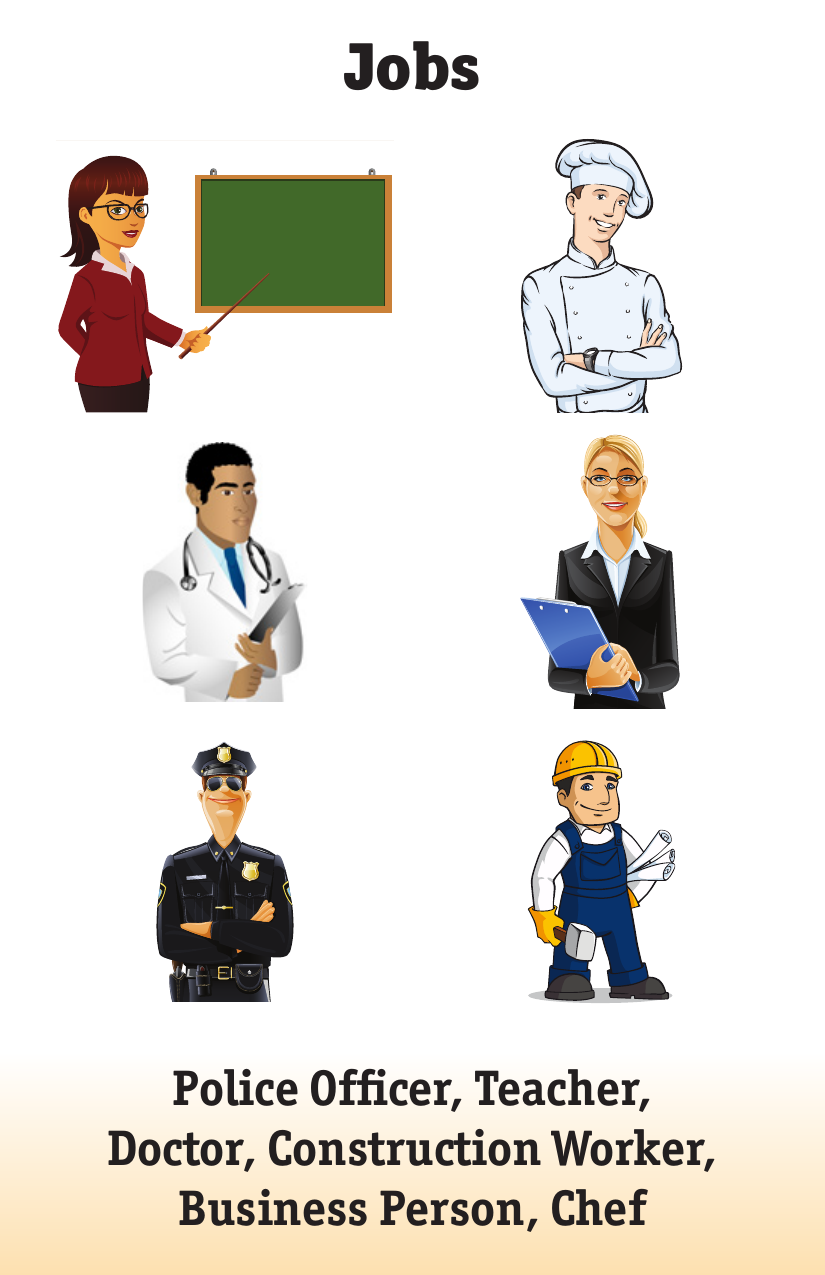
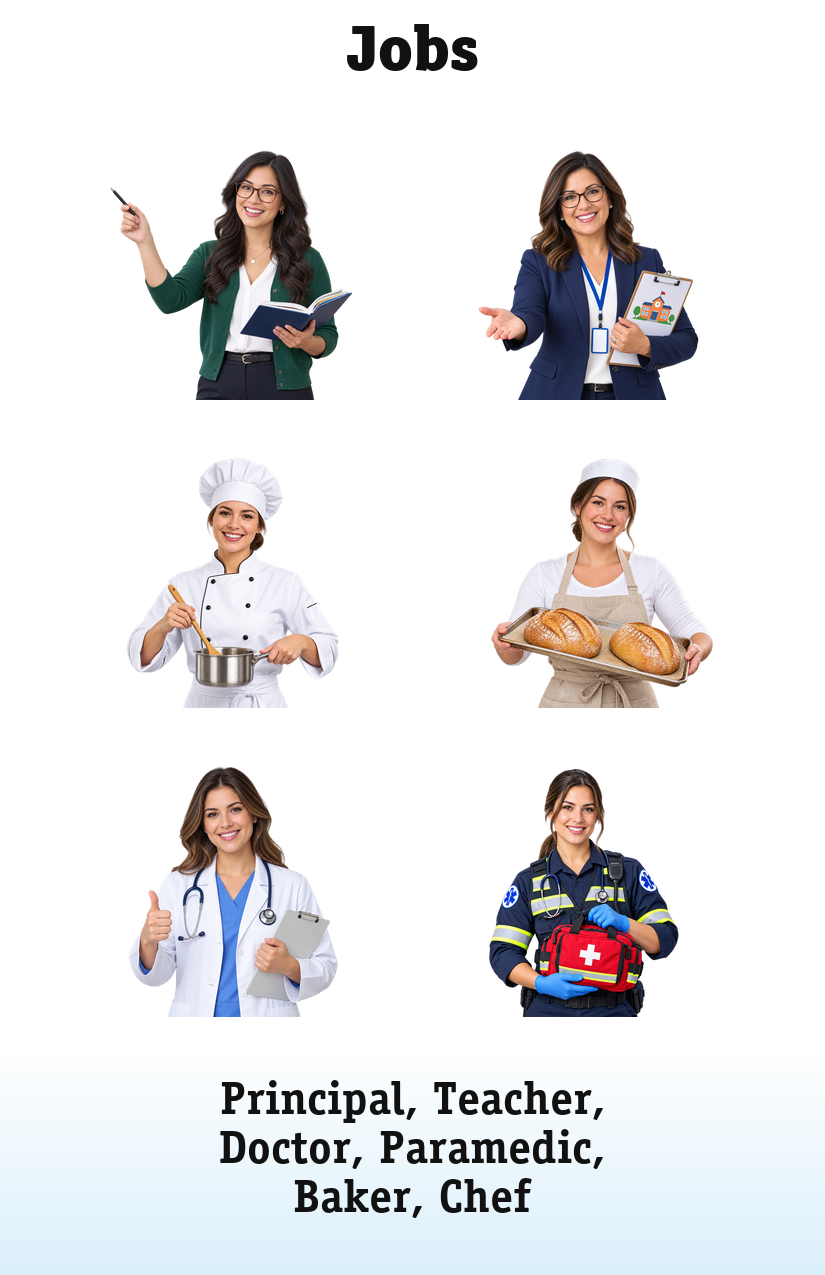
Rebuild Jobs around clear workplace pairs

diff --git a/picture-this/game-data.js b/picture-this/game-data.js
@@ -146,11 +146,11 @@ window.PICTURE_THIS_GAME_DATA = {
   ],
   "jobs": [
     "Teacher",
+    "Principal",
     "Chef",
+    "Baker",
     "Doctor",
-    "Business Person",
-    "Police Officer",
-    "Construction Worker"
+    "Paramedic"
   ],
   "everyday-foods": [
     "Beans",
@@ -1406,6 +1406,42 @@ window.PICTURE_THIS_GAME_DATA = {
 window.PICTURE_THIS_GAME_META = {
   "schema_version": 1,
   "cards": {
+    "jobs": {
+      "title": "Jobs",
+      "category_answers": ["Jobs", "Occupations", "People at Work", "Careers"],
+      "tags": ["jobs", "work", "occupations", "people"],
+      "items": [
+        {"id": "teacher", "label": "Teacher", "answers": ["Teacher", "School Teacher", "Educator"]},
+        {"id": "principal", "label": "Principal", "answers": ["Principal", "School Principal", "Headteacher", "Head Teacher"]},
+        {"id": "chef", "label": "Chef", "answers": ["Chef", "Professional Chef"]},
+        {"id": "baker", "label": "Baker", "answers": ["Baker", "Bread Baker"]},
+        {"id": "doctor", "label": "Doctor", "answers": ["Doctor", "Physician", "Medical Doctor"]},
+        {"id": "paramedic", "label": "Paramedic", "answers": ["Paramedic", "Emergency Paramedic", "Emergency Medic"]}
+      ],
+      "links": [
+        {
+          "word": "school",
+          "answers": ["school", "education"],
+          "items": ["teacher", "principal"],
+          "explanation": "The teacher and principal are the only two people shown whose jobs are specifically based in a school.",
+          "audit": "exclusive-among-six-v1"
+        },
+        {
+          "word": "kitchen",
+          "answers": ["kitchen", "cooking"],
+          "items": ["chef", "baker"],
+          "explanation": "The chef and baker are the only two people shown whose jobs center on preparing food in a professional kitchen.",
+          "audit": "exclusive-among-six-v1"
+        },
+        {
+          "word": "medical",
+          "answers": ["medical", "medicine", "healthcare"],
+          "items": ["doctor", "paramedic"],
+          "explanation": "The doctor and paramedic are the only two people shown who provide medical care.",
+          "audit": "exclusive-among-six-v1"
+        }
+      ]
+    },
     "space-travel": {
       "title": "Space Exploration",
       "category_answers": ["Space Exploration", "Space Travel", "Space and Astronomy", "Exploring Space"],

diff --git a/picture-this/question-data.js b/picture-this/question-data.js
@@ -795,45 +795,45 @@ window.PICTURE_THIS_QUESTION_DATA = {
   },
   "jobs": {
     "questions": [
-      "Which jobs on the card are interesting to you? Why?",
-      "Where does each person on the card work?",
-      "Which job requires the most education? Why?",
-      "Which of the jobs on the card makes the most money? Why?",
-      "Choose two of the jobs on the card. What do these people wear to work?",
-      "What other jobs do you know? What job would you like to have in the future?"
+      "Which people work at a school, in a kitchen, or in medical care?",
+      "What tools or clothing help you recognize each job?",
+      "Which of these jobs have you seen people doing in your community?",
+      "What skills does each person need to do their job well?",
+      "Which two jobs would you most like to try? Why?",
+      "Imagine these six people are helping at a community event. What could each person do?"
     ],
     "positions": [
-      13.14,
-      23.18,
-      33.29,
-      43.41,
-      53.53,
-      63.57
+      12.43,
+      22.75,
+      33.1,
+      47.76,
+      58.16,
+      68.47
     ],
     "endpoints": [
       {
-        "x": 68.36,
-        "y": 17.69
+        "x": 90.55,
+        "y": 16.82
       },
       {
-        "x": 27.03,
-        "y": 27.37
+        "x": 60.24,
+        "y": 27.33
       },
       {
-        "x": 50.91,
-        "y": 37.84
+        "x": 43.15,
+        "y": 42.0
       },
       {
-        "x": 64.24,
-        "y": 47.96
+        "x": 74.91,
+        "y": 52.35
       },
       {
-        "x": 92.61,
-        "y": 57.73
+        "x": 54.79,
+        "y": 62.71
       },
       {
-        "x": 29.94,
-        "y": 72.08
+        "x": 80.24,
+        "y": 77.37
       }
     ]
   },

diff --git a/picture-this/link-data.js b/picture-this/link-data.js
@@ -317,11 +317,7 @@ const auditedLinkAdditions = {
     pictureThisLink("transit", [1,4], "Train and bus are the only two high-capacity public ground-transit vehicles shown.")
   ],
   "great-outdoors": [pictureThisLink("trails", [0,2], "Horseback riding and hiking are the only two activities shown characteristically following land trails.")],
-  "jobs": [
-    pictureThisLink("white", [1,2], "Chef and doctor are the only two workers shown wearing predominantly white professional uniforms."),
-    pictureThisLink("clipboards", [2,3], "Doctor and business person are the only two workers shown holding clipboards."),
-    pictureThisLink("protectors", [2,4], "Doctor and police officer are the only two workers shown whose central role is protecting public health or safety.")
-  ],
+  "jobs": [],
   "everyday-foods": [pictureThisLink("complements", [0,5], "Beans and rice are the only two foods shown that form the familiar complementary-protein pair.")],
   "market": [
     pictureThisLink("meats", [2,4], "Chicken and fish are the only two animal meats shown."),
